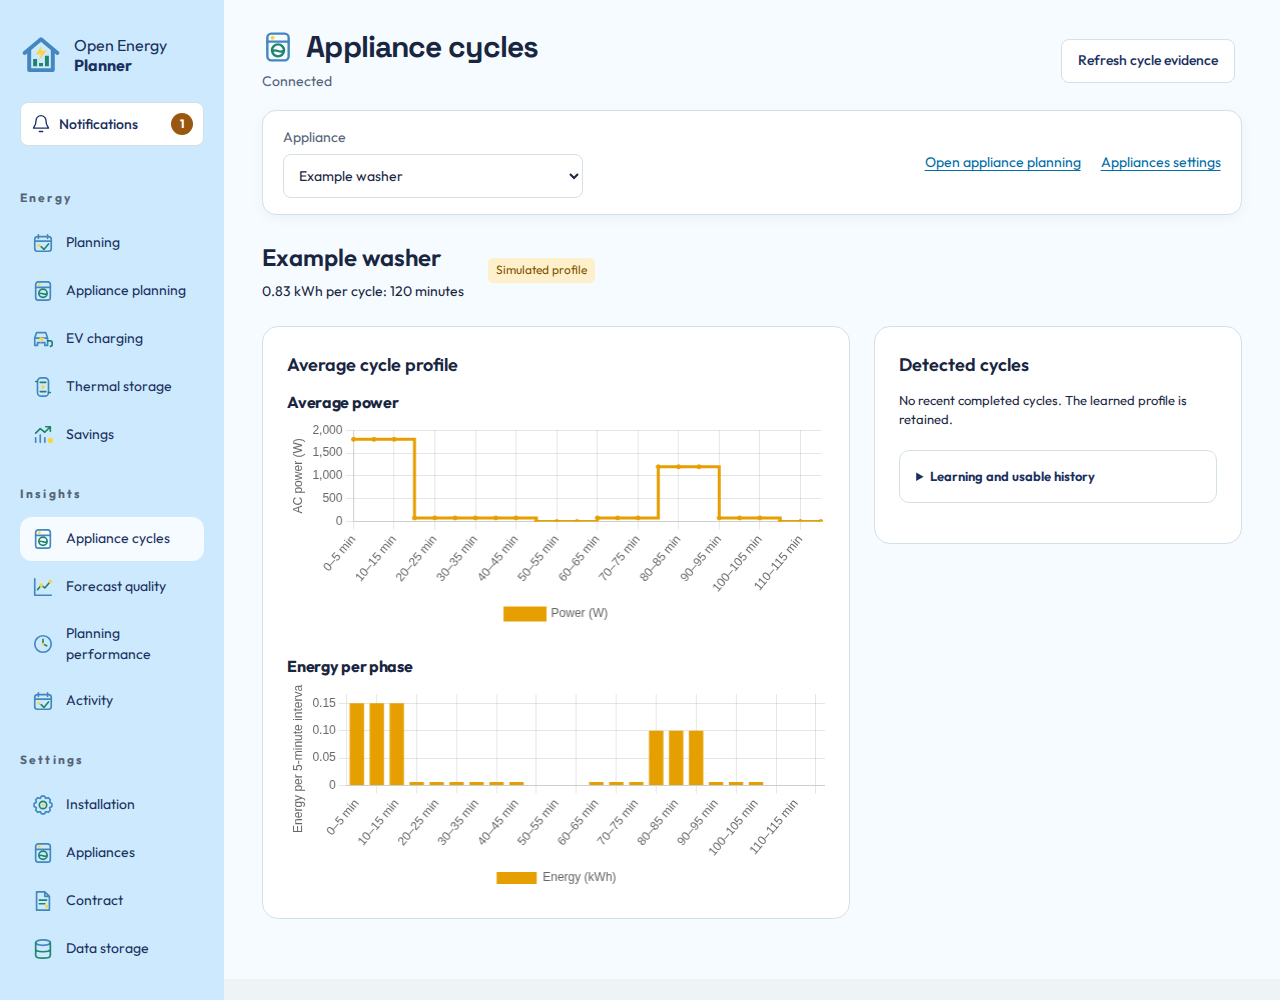
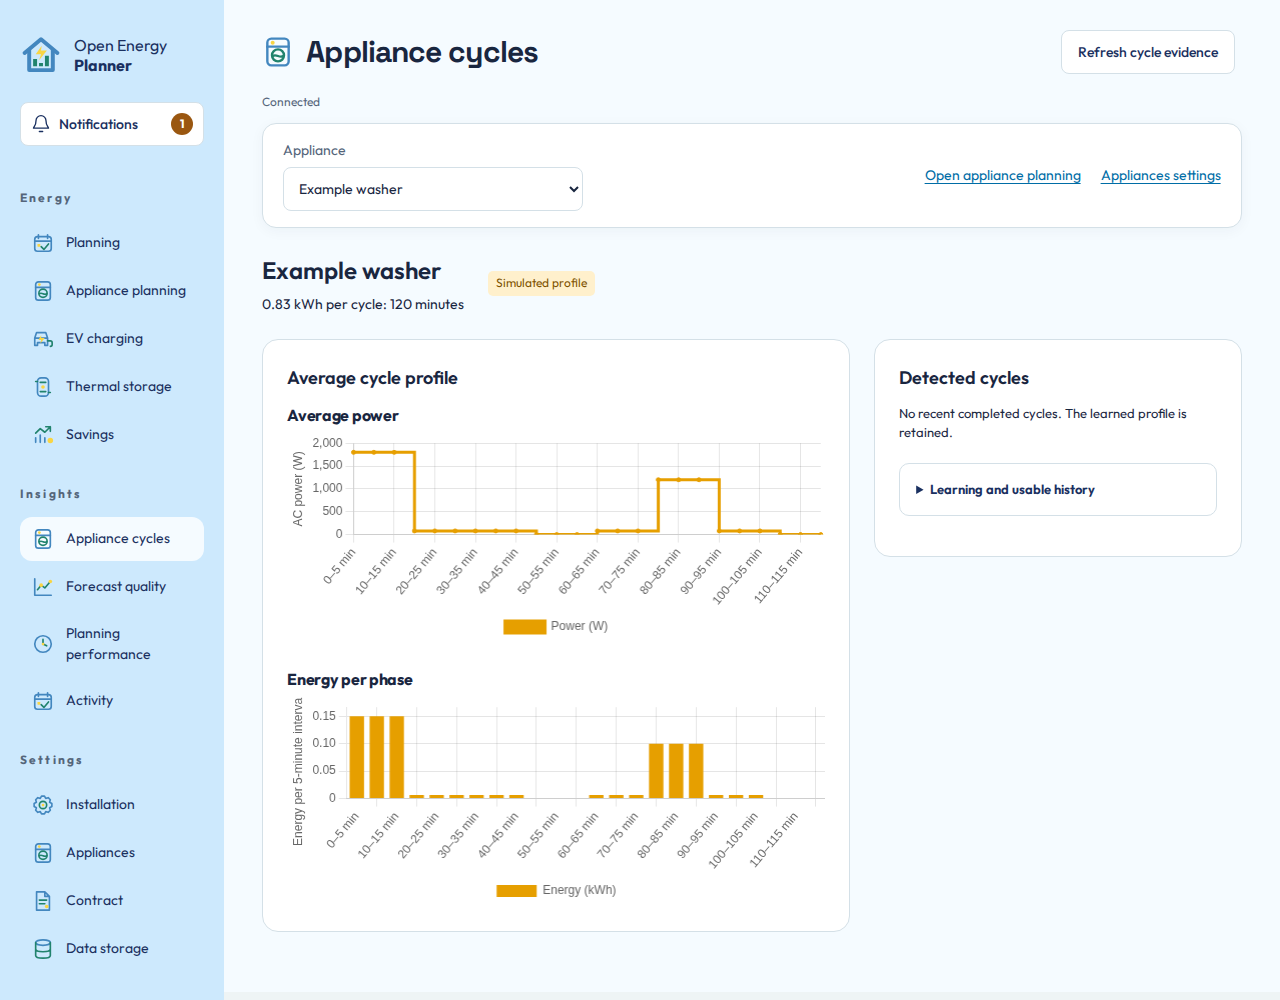
fix: keep appliance cycle status outside page heading

diff --git a/src/open_energy_planner/web/pages/appliance-cycles.html b/src/open_energy_planner/web/pages/appliance-cycles.html
@@ -1,7 +1,7 @@
 <!doctype html>
 <html lang="en"><head><meta charset="utf-8"><meta name="viewport" content="width=device-width,initial-scale=1"><meta name="oep-api-base" content="__OEP_BASE__"><title>Open Energy Planner: Appliance cycles</title><link rel="stylesheet" href="/setup/style.css"><link rel="stylesheet" href="/setup/workspace.css"><script src="/setup/chart.umd.min.js"></script><script type="module" src="/setup/appliance-cycles.js"></script><link rel="icon" type="image/svg+xml" href="/setup/icons/app.svg"><link rel="stylesheet" href="/setup/activity.css"><link rel="stylesheet" href="/setup/settings-layout.css"><link rel="stylesheet" href="/setup/appliance-cycles.css"></head>
 <body class="workspace settings-workspace cycles-workspace"><!-- OEP_NAVIGATION -->
-<main class="workspace-main"><header class="page-header"><div><h1 class="page-heading"><img class="page-icon" src="/setup/icons/appliances.svg" alt="" width="32" height="32"><span>Appliance cycles</span></h1><p id="status" role="status"></p></div><button id="refresh" type="button" class="secondary">Refresh cycle evidence</button></header><form id="connect"><label>Installation API token<input id="token" type="password" autocomplete="off"></label><button disabled>Connect</button></form>
+<main class="workspace-main"><header class="page-header"><div><h1 class="page-heading"><img class="page-icon" src="/setup/icons/appliances.svg" alt="" width="32" height="32"><span>Appliance cycles</span></h1></div><button id="refresh" type="button" class="secondary">Refresh cycle evidence</button></header><p id="status" role="status" class="muted"></p><form id="connect"><label>Installation API token<input id="token" type="password" autocomplete="off"></label><button disabled>Connect</button></form>
 
 <section id="cycle-empty" class="chart-card" hidden><h2>No followed cycle appliances</h2><p>Select a consumption appliance in <a href="/appliance-settings">Appliances settings</a> to inspect its learning evidence. Shifting permission is not required.</p></section><div id="appliance-profiles" hidden>
 <section class="settings-toolbar" aria-label="Cycle appliance selection"><label for="profile-device">Appliance<select id="profile-device" aria-label="Appliance"></select></label><nav class="settings-actions" aria-label="Appliance actions"><a href="/appliances">Open appliance planning</a><a href="/appliance-settings">Appliances settings</a></nav></section>
